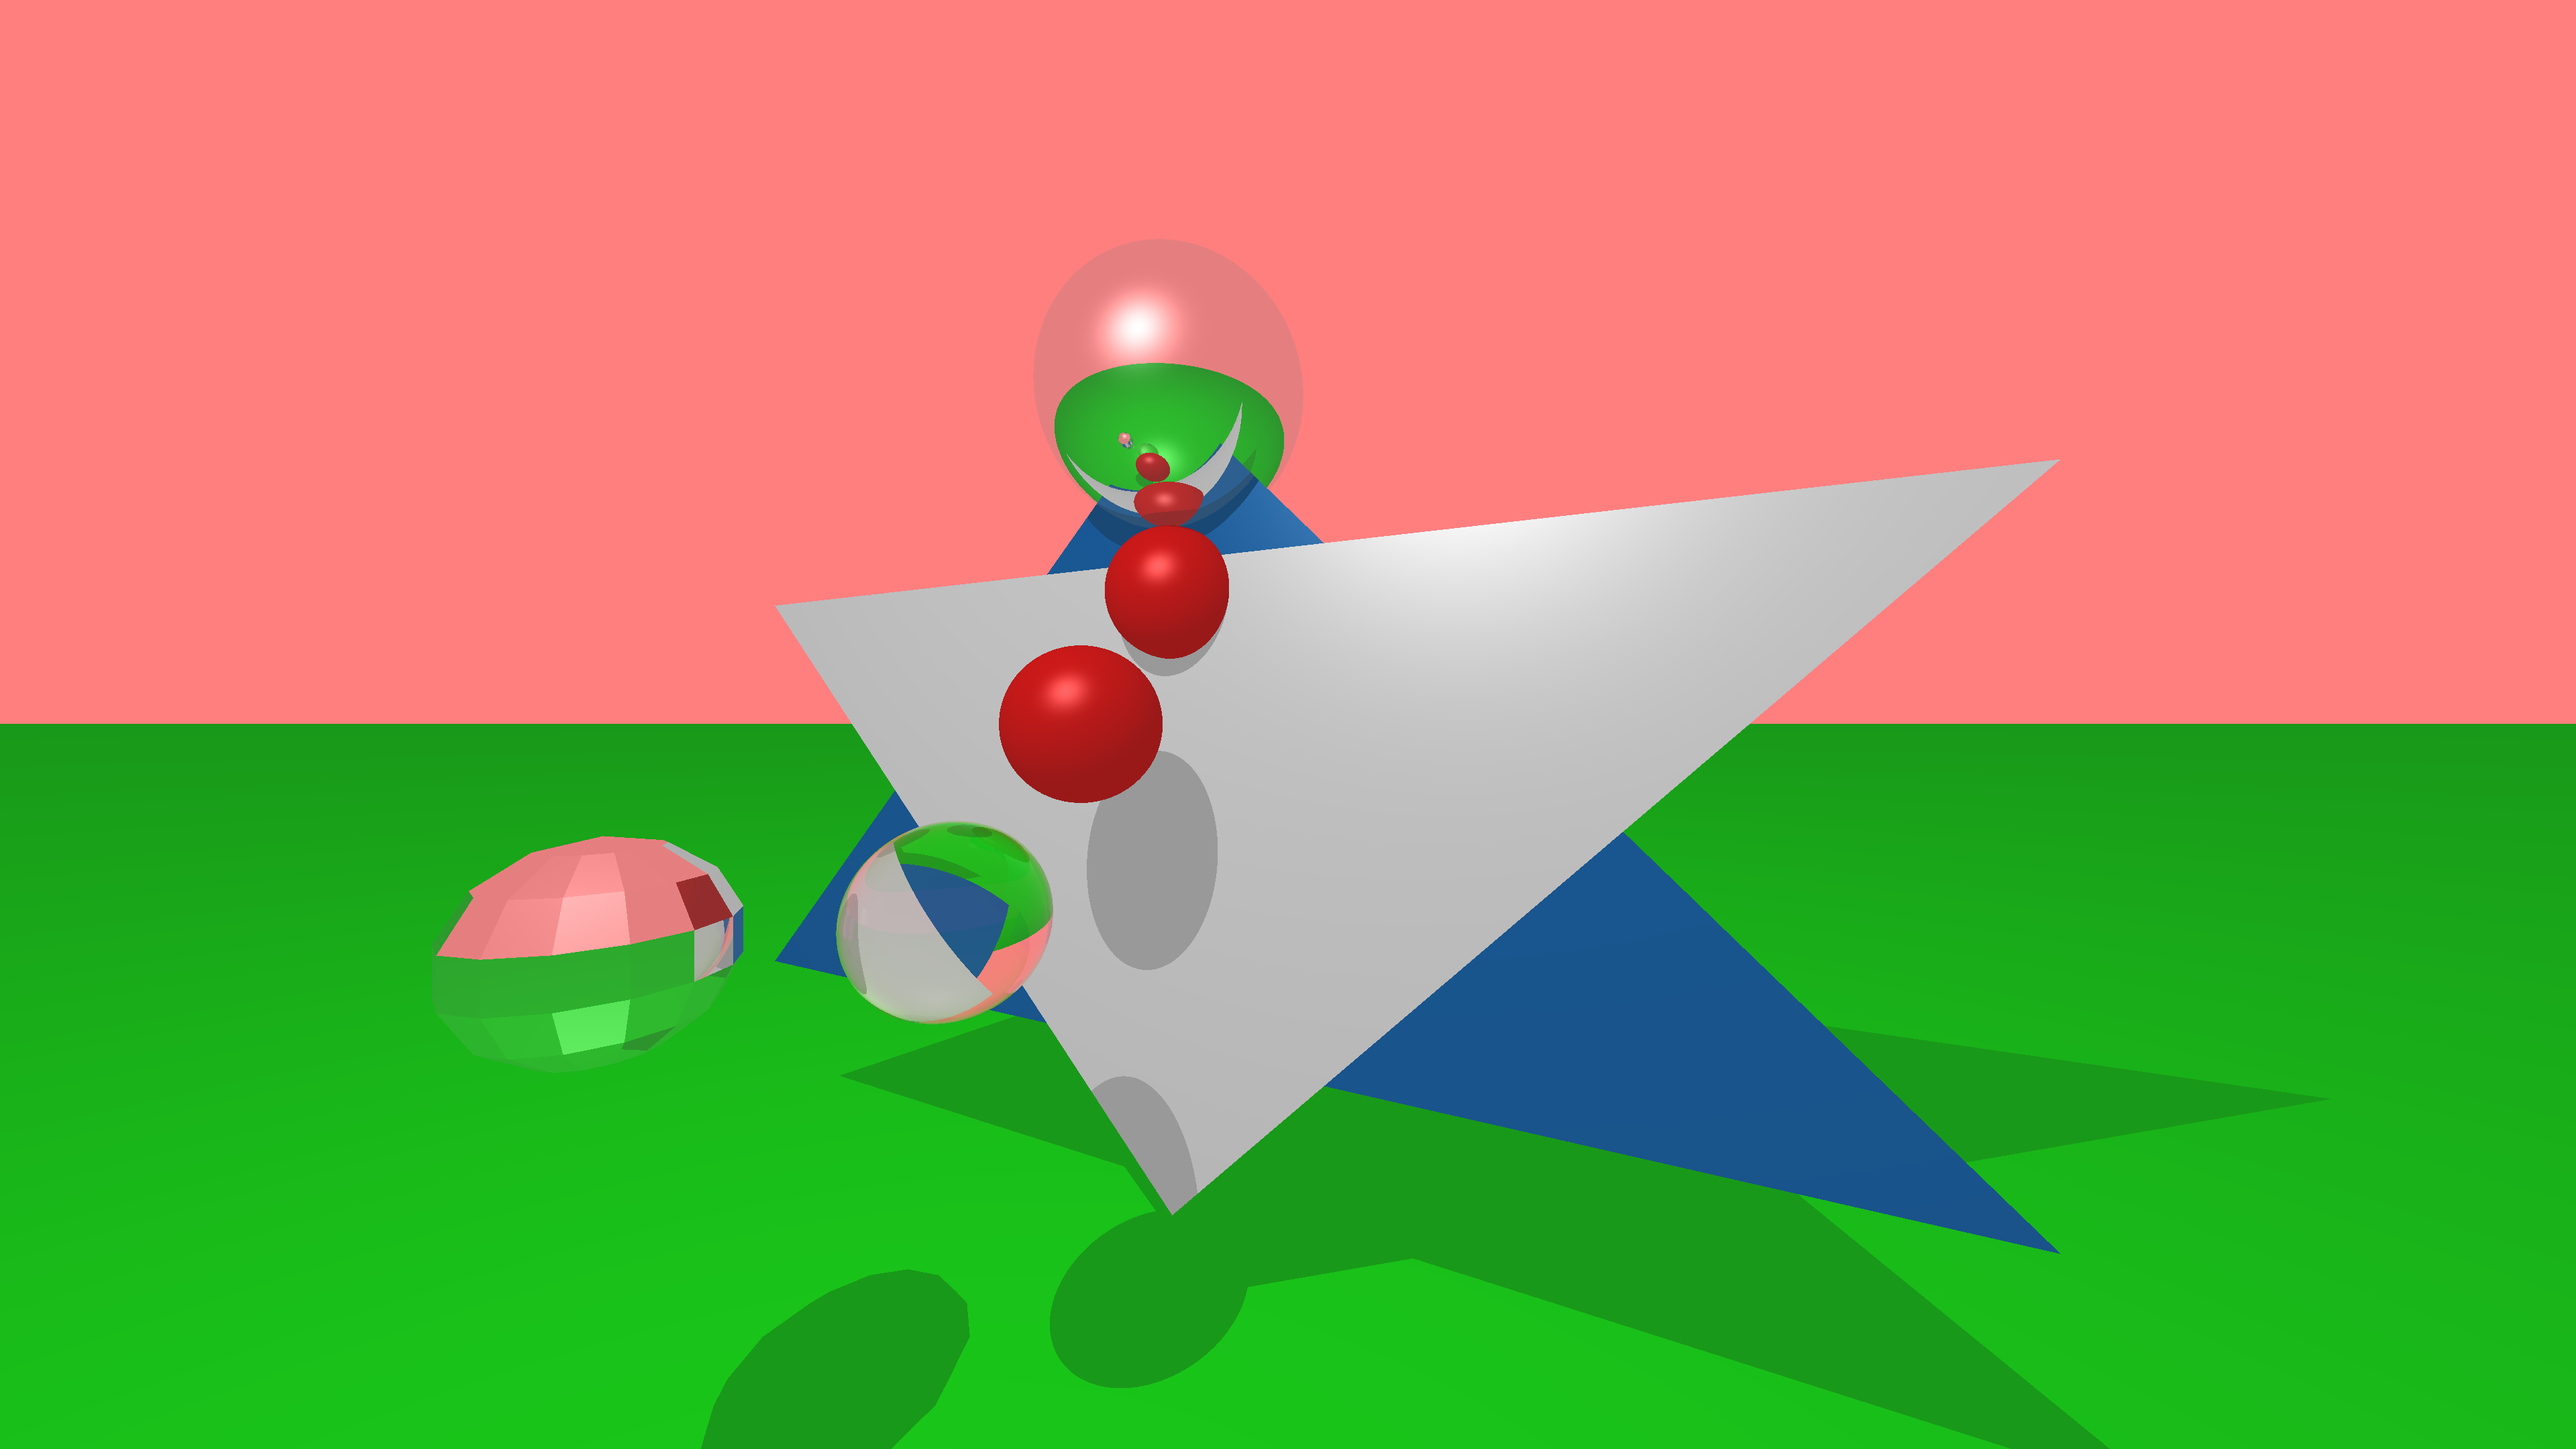
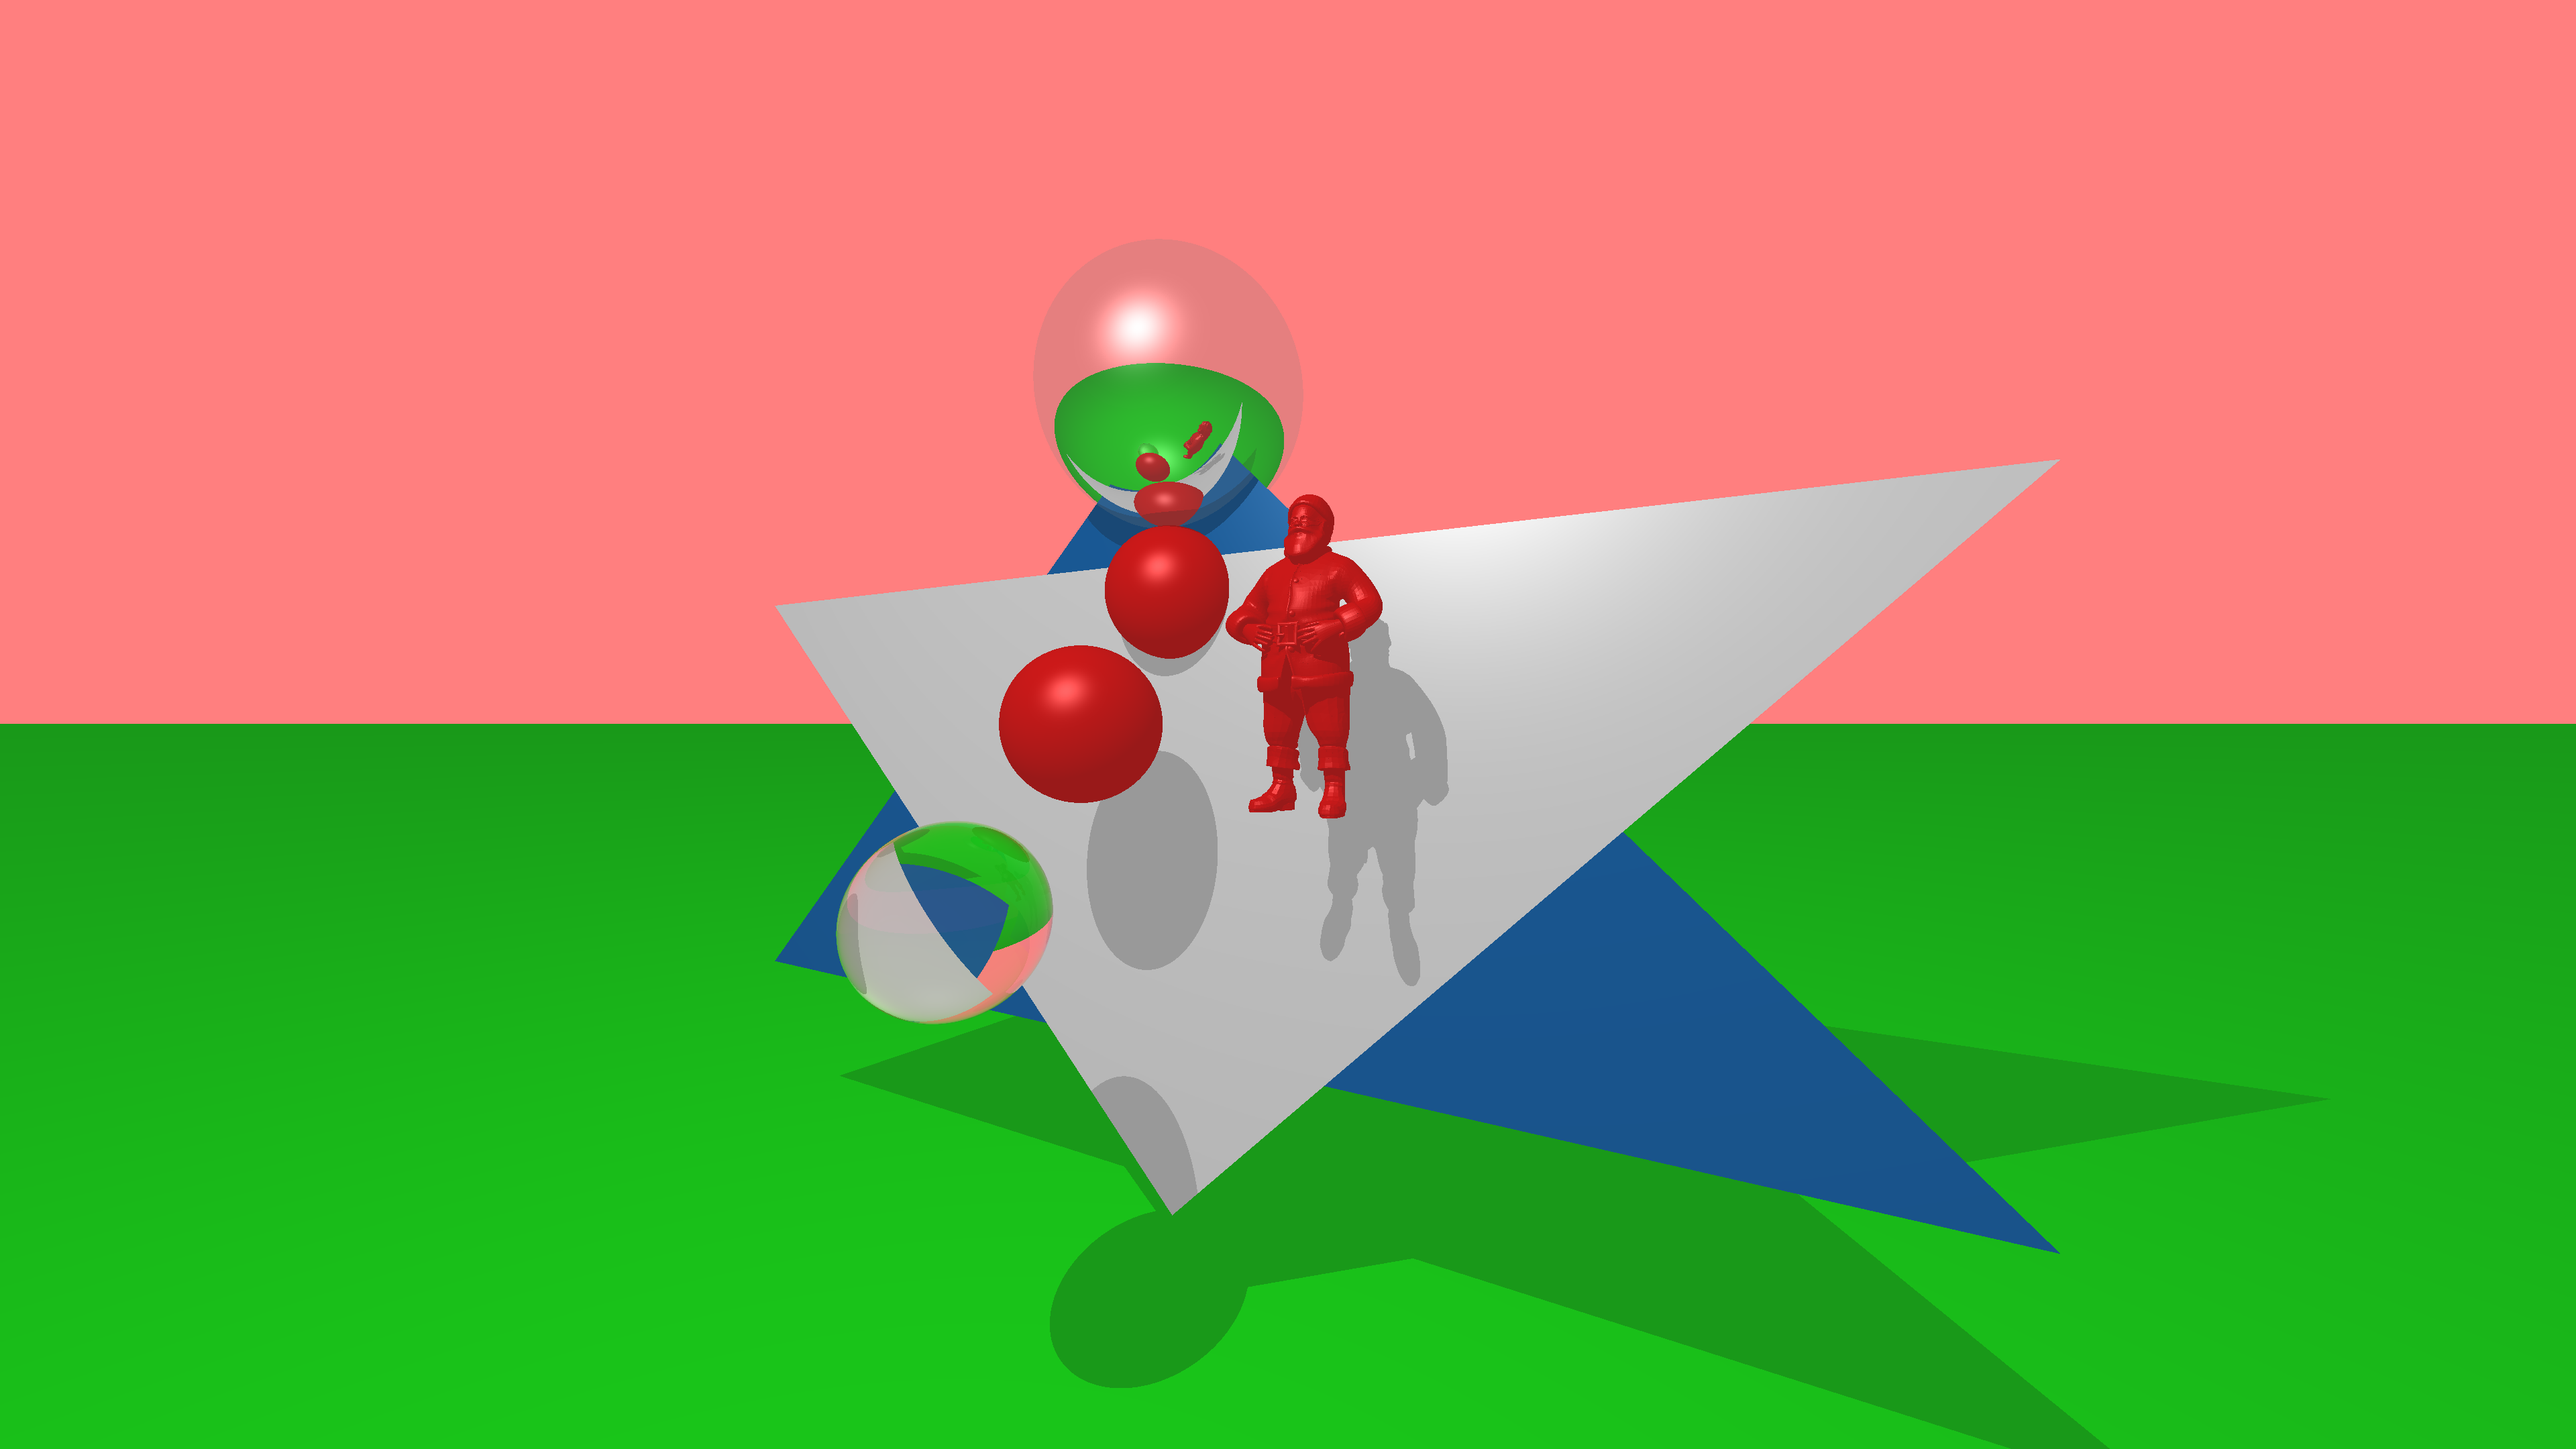
render santa claus

diff --git a/wasm_interface/script.js b/wasm_interface/script.js
@@ -43,9 +43,8 @@ async function run() {
     let scene_arraybuffer = await (await fetch('../res/scenes/scene_rust.json')).arrayBuffer();
     let scene = new Uint8Array(scene_arraybuffer);
 
-    let obj_sphere_arraybuffer = await (await fetch('../res/models/sphere_low.obj')).arrayBuffer();
-    let obj_sphere = new Uint8Array(obj_sphere_arraybuffer);
-
+    let obj_file_arraybuffer = await (await fetch('../res/models/santa.obj')).arrayBuffer();
+    let obj_file = new Uint8Array(obj_file_arraybuffer);
 
     let canvas = document.getElementById('screen');
     let button = document.getElementById("run-wasm");
@@ -62,7 +61,8 @@ async function run() {
 
         function render_js() {
             let startTime = performance.now();
-            render(canvas_buf, width, height, scene, obj_sphere);
+            // TODO: Stop blocking main thread
+            render(canvas_buf, width, height, scene, obj_file);
             let endTime = performance.now();
 
             ctx.putImageData(canvas_img, 0, 0);

diff --git a/native_interface/src/main.rs b/native_interface/src/main.rs
@@ -26,10 +26,12 @@ fn main() {
         model_dir: MODEL_DIR_PATH.into()
     };
 
+    let time_start = Instant::now();
     let scene = Parser {
         file_reader: scene_file,
         mesh_loader,
     }.parse_json().unwrap();
+    println!("Parsing took {:.2}s", time_start.elapsed().as_secs_f32());
 
     let time_start = Instant::now();
     let canvas = paint_scene(&scene);

diff --git a/lib_raytracer/src/raytracing/bvh/bvh.rs b/lib_raytracer/src/raytracing/bvh/bvh.rs
@@ -10,6 +10,7 @@ pub struct BVH {
 impl BVH {
     pub fn from(triangles: Vec<Triangle>) -> BVH {
         let (nodes, max_depth) = Builder::build_bvh(triangles);
+        println!("BVH with {} nodes and max_depth = {}", nodes.len(), max_depth);
         BVH { nodes, max_depth }
     }
 

diff --git a/lib_raytracer/src/raytracing/intersect.rs b/lib_raytracer/src/raytracing/intersect.rs
@@ -7,7 +7,7 @@ use crate::raytracing::bvh::{BVH, Node, NodeType};
 use crate::utils;
 use crate::utils::AliasArc;
 
-const NUMERIC_ERROR_COMPENSATION_OFFSET: f32 = 1e-5;
+const NUMERIC_ERROR_COMPENSATION_OFFSET: f32 = 1e-4;
 
 pub trait Intersect {
     type Result;
